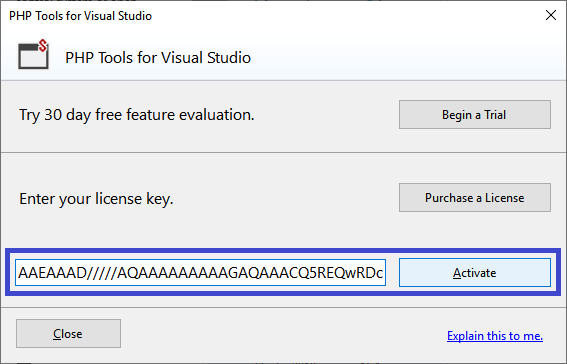
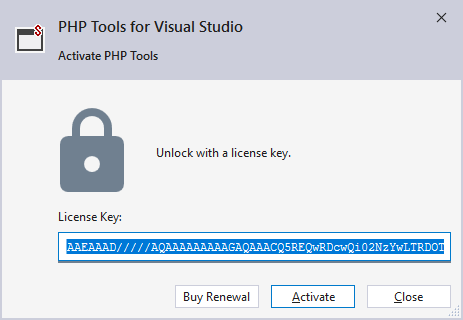
docs: new activation process

diff --git a/docs/vs/Installation/activation.md b/docs/vs/Installation/activation.md
@@ -5,37 +5,37 @@ Description: Activate PHP Tools for Visual Studio
 
 # Product Activation
 
-Once you have [downloaded PHP Tools](https://www.devsense.com/en/download), [installed it](https://docs.devsense.com/en/vs/installation) and [installed PHP](https://docs.devsense.com/en/vs/installation/install-php), it's time to activate the product.
+After [downloading PHP Tools for Visual Studio](https://www.devsense.com/download), and [installing it](../installation), the product license needs to be **activated**.
 
-PHP Tools for Visual Studio comes with a free trial to evaluate the software. You can enable the trial first to see whether PHP Tools suits you. The trial allows free access to all developing features for 30 days. When the trial ends, you can activate the software using a purchased license key.
+## Trial License
 
-## Activate Trial
+PHP Tools for Visual Studio comes with a free 30-day trial license, allowing to use all the features. The trial license is enabled automatically once Visual Studio starts.
 
-As explained before, PHP Tools for Visual Studio comes with a free, 30-day trial. This trial can be started anytime, but until then, only a set of basic features will work. PHP Tools will ask to start the trial every time Visual Studio starts (see picture below). 
+![Trial License Notification](imgs/license-welcome-trial.png)
 
-![Begin trial](imgs/license-ask-trial.png)
+You can check the state of the license in `Help` / `About PHP Tools` menu.
 
-This dialog box will appear every time, unless the trial has been started, the product has been activated, or the dialog box has been disabled in its Close menu. 
-
-Click **Begin Trial** to start a free 30-day evaluation.
-
-> **Note:** The trial can also be activated from the Visual Studio menu. Click **Help**, and then **Activate PHP Tools for Visual Studio** to re-open the activation dialog.
+> Note, enabling the trial license requires an Internet connection.
 
 ## Obtain License Key
 
-The license key can be purchased online from our [Purchase page](https://www.devsense.com/purchase). For detailed information about licence types, licensing model, purchase, upgrades and renewal, see our [FAQ section](https://www.devsense.com/en/purchase#faq).
+The license key can be purchased online from our [purchase page](https://www.devsense.com/purchase). For detailed information about licence types, licensing model, purchase, upgrades and renewal, see our [FAQ section](https://www.devsense.com/en/purchase#faq).
+
+The license key is sent by email **immediately** after the payment.
 
 ## Enter License Key
 
-Once you have a purchased license key, you can activate your copy of PHP Tools for Visual Studio. The product can be activated from the Visual Studio menu. Click `Help | Activate PHP Tools for Visual Studio` to open the activation dialog. 
+Once you have a obtained the license key, activate your copy of *PHP Tools for Visual Studio*. The product can be activated from the Visual Studio menu.
 
-Then, paste your license key and click "Activate".
+- Go to `Help`/`Activate PHP Tools`, and the *Activation Dialog* will open.
+- Paste the license key
+- Click **`Activate`**
 
-![Enter license key](imgs/activation-enter-key.png)
+  ![Enter license key](imgs/activation-enter-key.png)
 
-> **Note**: If you have a blocked Internet connection, you can also activate the product. More on [offline activation](offline-activation).
+> Note, when you're offline, the [offline activation](offline-activation) window will appear, guiding you through the process of offline activation.
 
-To review the status of your maintenance and support subscription, go to `Help | PHP Tools for Visual Studio`. [What's the maintenance and support subscription?](https://www.devsense.com/en/purchase/faq/upgrades-and-renewal#what-is-the-maintenance-and-support-subscription)
+To check the status of your maintenance and support subscription, go to `Help`/`About PHP Tools`. [What's the maintenance and support subscription?](https://www.devsense.com/en/purchase/faq/upgrades-and-renewal#what-is-the-maintenance-and-support-subscription)
 
 ![License status](imgs/license-about-window.png)
 
@@ -43,7 +43,7 @@ This window gives you information about your license status, product version and
 
 ## User Seats
 
-Licenses are assigned to individual users and computers upon first activation. In the case a computer is no longer in use, or a user is no longer actively using the license, you can unregister them to free up their seat for another user. Visit the [**Dashboard**](https://www.devsense.com/account/dashboard) in the upper right corner of this web site to do so.
+Licenses are assigned to individual users and computers upon first activation. In the case a computer is no longer in use, or a user is no longer actively using the license, you can unregister them to free up their *seat* for another user. Visit the [**Dashboard**](https://www.devsense.com/account/dashboard) in the upper right corner of this web site to do so.
 
 1. **Create a new user account** in the dashboard, or login using available social login.
 2. In case there is no *License Key* listed in your Dashnoard, **Associate License Key** first.

diff --git a/docs/vs/Installation/offline-activation.md b/docs/vs/Installation/offline-activation.md
@@ -9,7 +9,6 @@ In case there is no Internet connection available or the Internet has been block
 
 ![Enter license key](imgs/activation-enter-key.png)
 
-
 To access offline activation, proceed to the normal product activation by entering your license key, as shown on the picture above. The activation dialog will popup a message saying it cannot reach the server and it will **provide an alternate URL**. This URL can be copied and opened in a web browser with a working connection (see picture below).
 
 ![Get alternate URL](imgs/offline-activate1.png)
@@ -17,8 +16,6 @@ To access offline activation, proceed to the normal product activation by enteri
 After opening the URL in the web browser, the page generates an offline key (*a long-base64-encoded text*) which can be copied and pasted back to the activation dialog, instead of the regular license key.
 
 ![Get offline key](imgs/offline-activate2.png)
-
-
 
 ![Enter offline key](imgs/offline-activate3.png)
 
